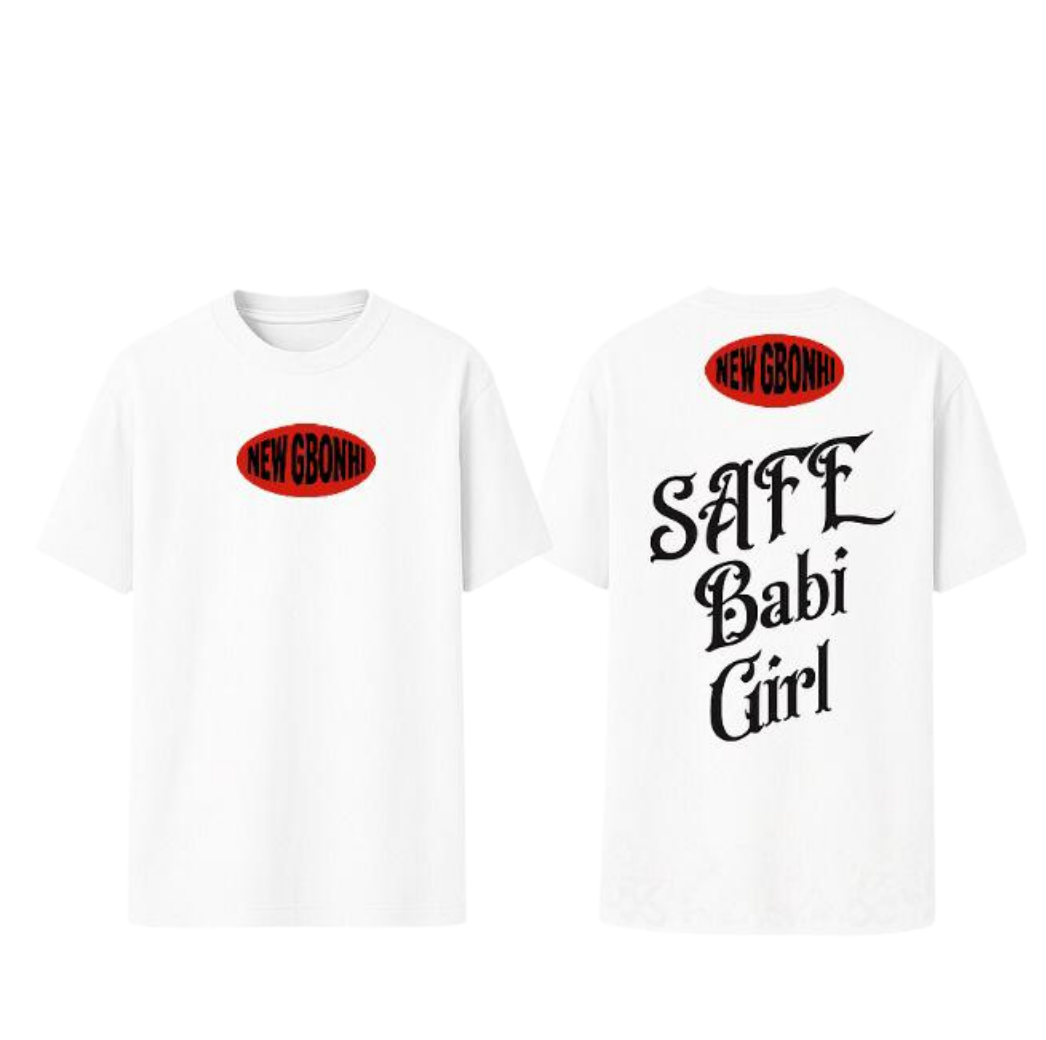
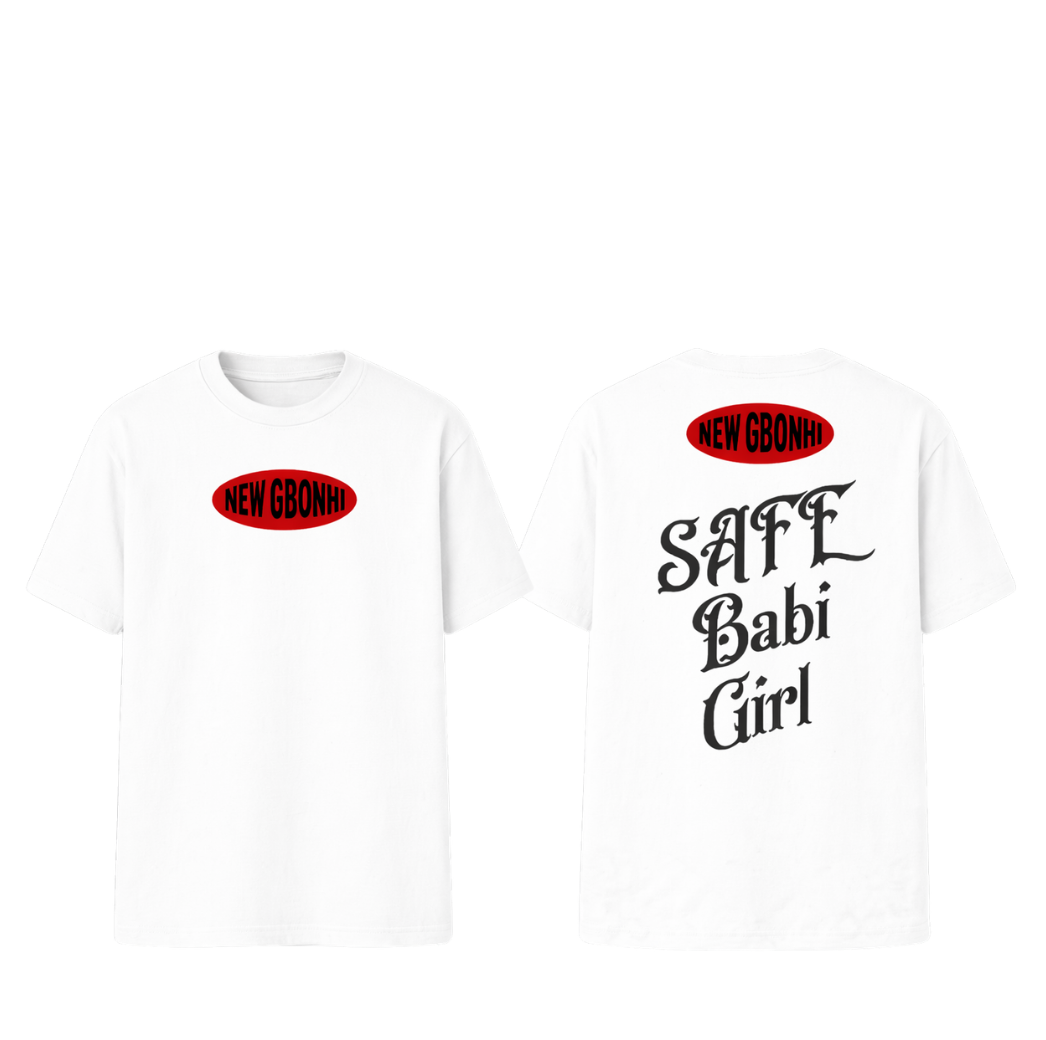
feat: update white safe babi girl image and alignment

diff --git a/src/ProductPage.vue b/src/ProductPage.vue
@@ -44,6 +44,7 @@
           <img
             :src="activeImagePrimary"
             :alt="product.title"
+            :style="activeImageStyle"
             loading="lazy"
             decoding="async"
           />
@@ -184,6 +185,26 @@ export default {
     },
     activeImageWebp() {
       return this.activeVariant?.imageWebp || this.product?.imageWebp || "";
+    },
+    activeImageZoom() {
+      const zoom = Number(this.activeVariant?.imageZoom);
+      if (!Number.isFinite(zoom) || zoom <= 0) {
+        return 1;
+      }
+      return zoom;
+    },
+    activeImageStyle() {
+      return {
+        "--variant-image-zoom": String(this.activeImageZoom),
+        "--variant-image-offset-x": this.activeImageOffsetX,
+        "--variant-image-offset-y": this.activeImageOffsetY,
+      };
+    },
+    activeImageOffsetX() {
+      return this.activeVariant?.imageOffsetX || "0%";
+    },
+    activeImageOffsetY() {
+      return this.activeVariant?.imageOffsetY || "0%";
     },
     sizeOptions() {
       if (this.product?.sizes?.length) {
@@ -417,6 +438,15 @@ export default {
   object-fit: contain;
   display: block;
   max-height: 420px;
+  transform:
+    translate(var(--variant-image-offset-x, 0%), var(--variant-image-offset-y, 0%))
+    scale(var(--variant-image-zoom, 1));
+  transform-origin: center center;
+  transition: transform 0.2s ease;
+}
+
+.product-picture {
+  overflow: hidden;
 }
 
 .product-placeholder {
